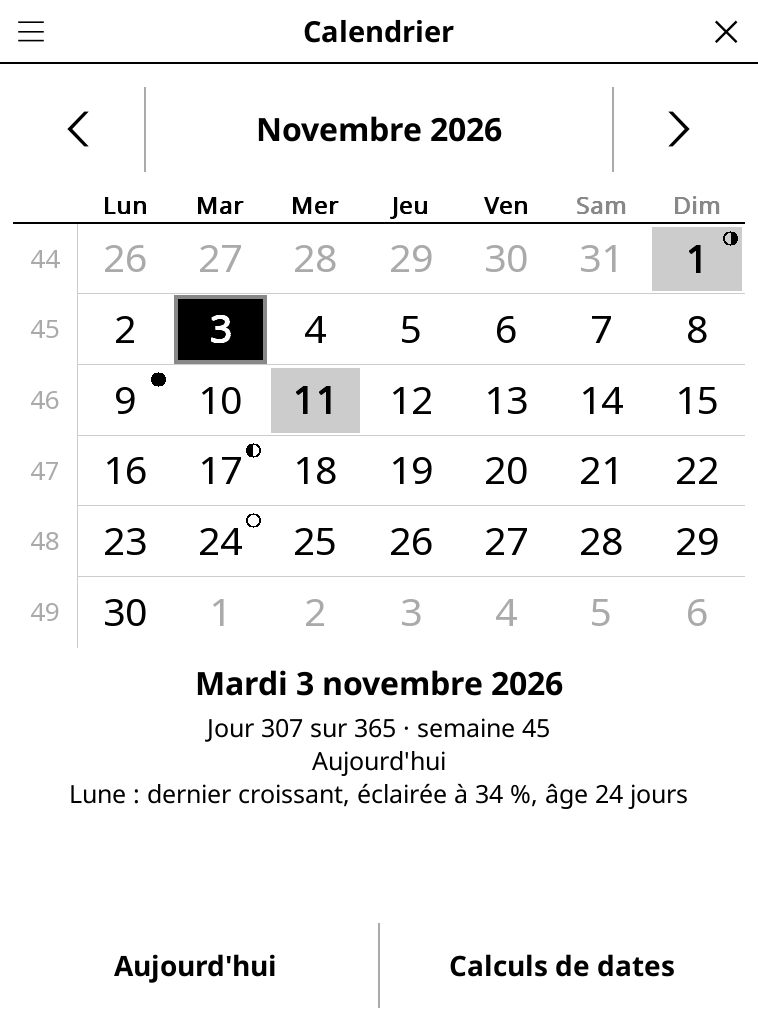
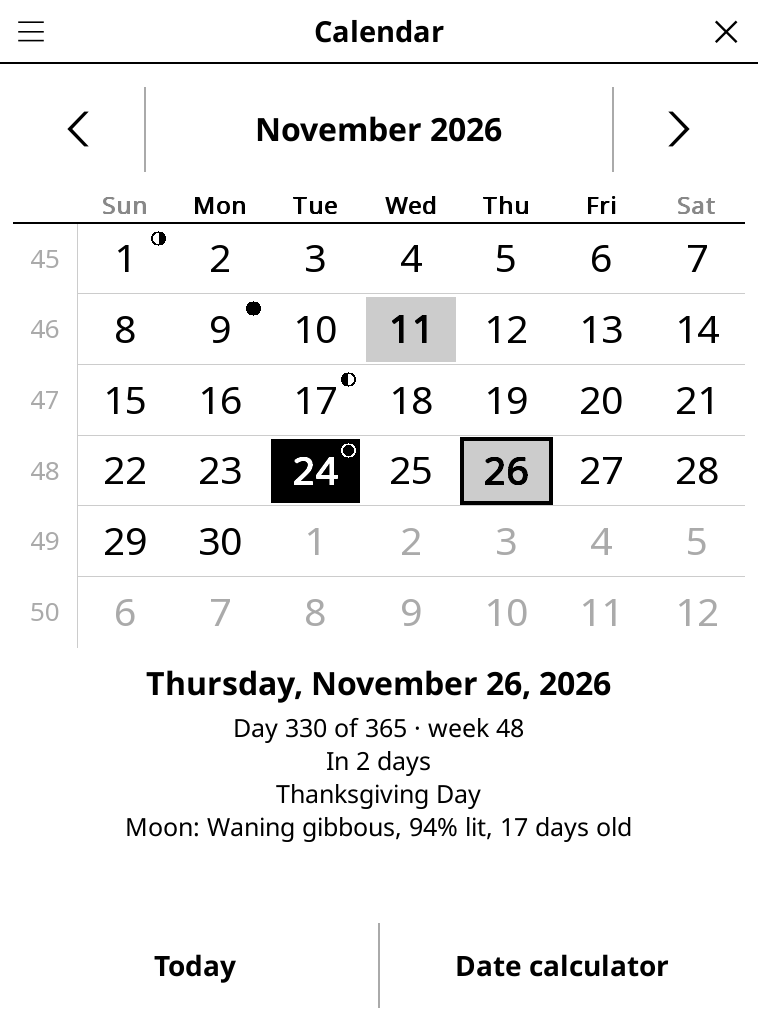
release: 1.0.7 -- Picks up game-common 1.20.0: a deferred action (timer tick, computer's
See CHANGELOG.md.

diff --git a/CHANGELOG.md b/CHANGELOG.md
@@ -2,6 +2,15 @@
 
 All notable changes to this project will be documented in this file.
 
+## [1.0.7] - 2026-11-24
+
+### Changed
+- Picks up game-common 1.20.0: a deferred action (timer tick, computer's
+  move, card flip) no longer runs once the game is closed or a new game has
+  started, and the game is saved a few seconds after a move instead of after
+  every one, and at once on close, suspend or power-off.
+- The README screenshot shows the game in English.
+
 ## [1.0.6] - 2026-11-24
 
 ### Changed
